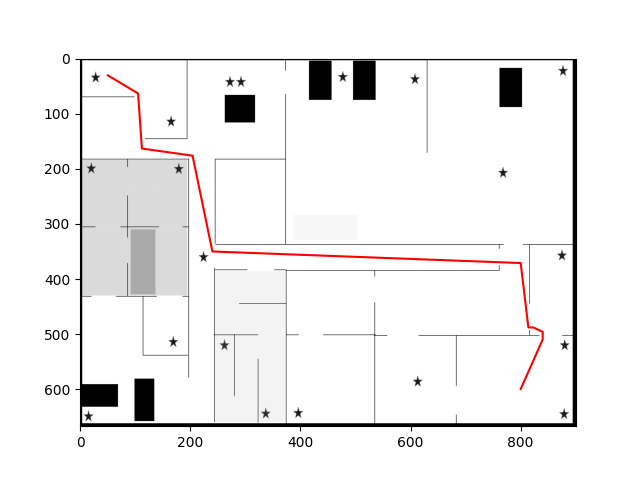
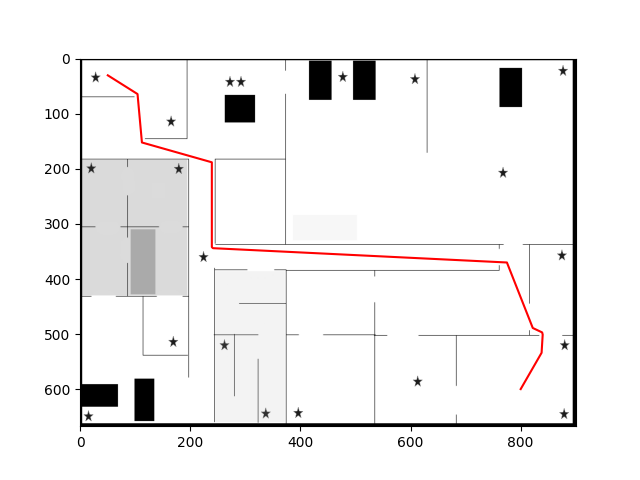
feat: optimized border calculation

diff --git a/src/swarm_rescue/solutions/pathfinder/pathfinder.py b/src/swarm_rescue/solutions/pathfinder/pathfinder.py
@@ -8,7 +8,22 @@ robot_radius = 5
 save_images = True
 output = "./solve.png"
 
-def border_from_map(map, rr):
+
+def border_from_map_np(map):
+    map = np.ones(map.shape).astype(np.float32)-map
+    for _ in range(robot_radius):
+        map = (np.roll(map,(1, 0), axis=(1, 0))+
+               np.roll(map,(0, 1), axis=(1, 0))+
+               np.roll(map,(-1, 0), axis=(1, 0))+
+               np.roll(map,(0, -1), axis=(1, 0))+
+               np.roll(map,(1, 1), axis=(1, 0))+
+               np.roll(map,(-1, -1), axis=(1, 0))+
+               np.roll(map,(1, -1), axis=(1, 0))+
+               np.roll(map,(-1, 1), axis=(1, 0)))
+    return map>0.5
+
+# TODO : optimize with numpy roll
+def border_from_map(map):
     def norm(i,j,x,y):
         return np.sqrt((i-x)**2+(j-y)**2)
 
@@ -40,7 +55,7 @@ def border_from_map(map, rr):
     while len(waiting_list)>0 or len(new_waiting_list)>0:        
         if len(waiting_list)==0:
             count += 1
-            if count>=round(rr):
+            if count>=round(robot_radius):
                 break
             waiting_list = new_waiting_list.copy()
             new_waiting_list = []
@@ -92,10 +107,10 @@ def smooth_path(map, path):
 
 
 
-def pathfinder(map, start, end):   
+def pathfinder(map, start, end):
 
     tb = time.time()
-    map_border = border_from_map(map, robot_radius)
+    map_border = border_from_map_np(map)
     print(f"Border map generated in {time.time()-tb:.6f}s")
 
     grid = np.ones(map.shape).astype(np.float32)
